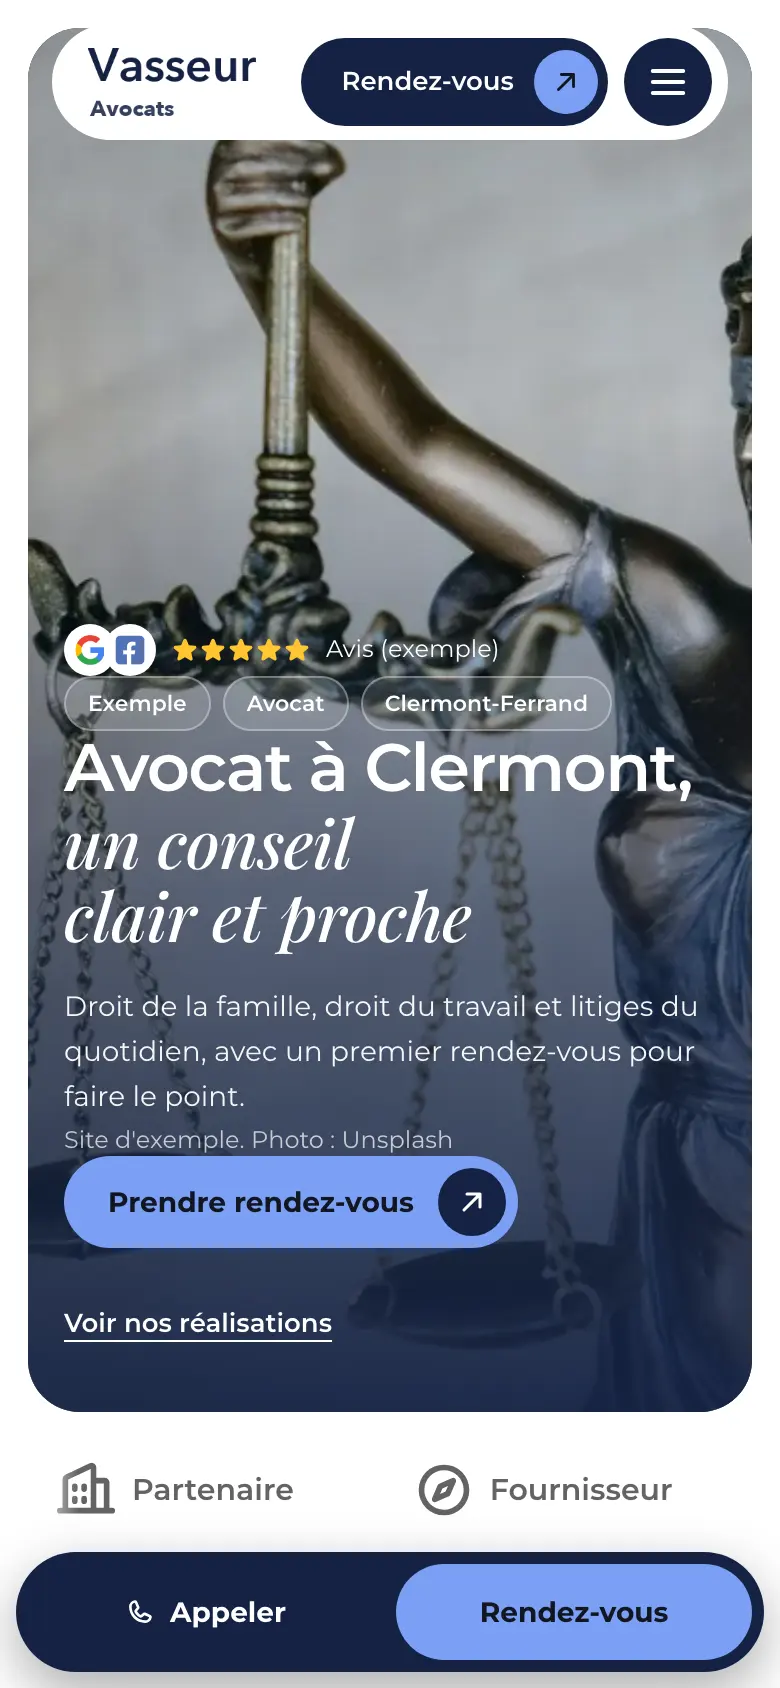
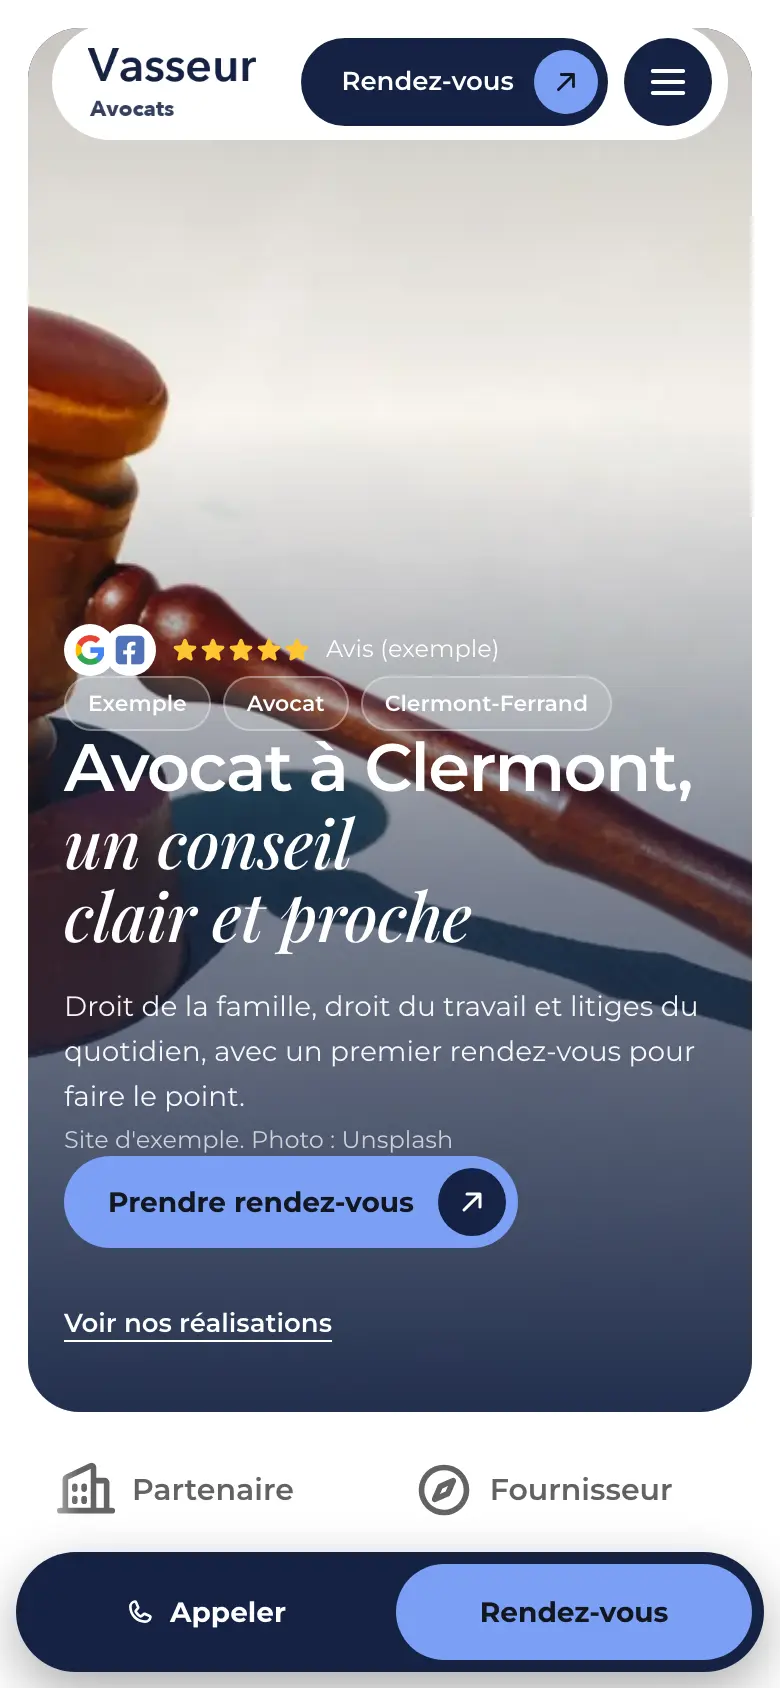
Hero : cadre argenté, écrans clairs, fondu en paliers, fond nettoyé

diff --git a/style.css b/style.css
@@ -69,24 +69,7 @@ em{font-style:normal;color:var(--red)}
 
 /* ---------- Hero ---------- */
 .hero{position:relative;padding-top:124px;text-align:center;overflow:clip;isolation:isolate}
-.hero-bg{position:absolute;inset:0;z-index:-1;
-  background:
-    radial-gradient(42% 30% at 50% 22%,rgba(var(--red-rgb),.07),transparent 72%),
-    radial-gradient(30% 45% at 0% 70%,rgba(var(--red-rgb),.09),transparent 70%),
-    radial-gradient(30% 45% at 100% 66%,rgba(var(--red-rgb),.08),transparent 70%),
-    linear-gradient(180deg,#FCFBFA 0%,#F7F3F3 45%,#F1E9EA 75%,var(--bg))}
-/* surface incurvée (ref-01) : creux en haut, bosse en bas, ombre portée par le parent */
-.surface{position:absolute}
-.hero-bg>.surface{left:-10%;right:-10%;top:470px;height:700px;filter:drop-shadow(0 -1px 0 rgba(var(--red-rgb),.20)) drop-shadow(0 -16px 30px rgba(28,29,33,.06));
-  background:
-    linear-gradient(180deg,#fff,rgba(255,255,255,.9) 50%,rgba(255,255,255,.55)),
-    radial-gradient(34% 80% at 0 40%,rgba(var(--red-rgb),.14),transparent),
-    radial-gradient(34% 80% at 100% 40%,rgba(var(--red-rgb),.12),transparent);
-  -webkit-mask:radial-gradient(58% 190px at 50% 0,transparent 98%,#000 100%),radial-gradient(64% 150px at 50% 100%,transparent 98%,#000 100%);
-  -webkit-mask-composite:source-in;
-  mask:radial-gradient(58% 190px at 50% 0,transparent 98%,#000 100%),radial-gradient(64% 150px at 50% 100%,transparent 98%,#000 100%);
-  mask-composite:intersect}
-
+.hero-bg{position:absolute;inset:0;z-index:-1;background:#FBFAF9}
 .hero-bg::before{content:"";position:absolute;inset:0;background:repeating-linear-gradient(90deg,rgba(28,29,33,.045) 0 1px,transparent 1px 92px);background-position:calc(50% + 46px) 0;-webkit-mask-image:linear-gradient(180deg,transparent 0%,#000 18%,#000 70%,transparent 96%);mask-image:linear-gradient(180deg,transparent 0%,#000 18%,#000 70%,transparent 96%)}
 .hero-copy{display:flex;flex-direction:column;align-items:center}
 .hero h1{margin-top:22px;font-size:clamp(40px,4.8vw,68px);font-weight:700;letter-spacing:-.04em;line-height:1}
@@ -108,20 +91,22 @@ em{font-style:normal;color:var(--red)}
 /* Bloc téléphones, mesuré sur ref-03 (voir ../tokens.md) */
 .stage{position:relative;margin-top:30px;height:725px;overflow:hidden}
 .stage-in{position:absolute;top:0;left:50%;width:1120px;height:725px;translate:-50% 0;transform-origin:50% 0}
-.halo{position:absolute;left:50%;top:40px;width:1100px;height:760px;translate:-50% 0;border-radius:50%;
-  background:radial-gradient(closest-side,rgba(var(--red-rgb),.16),rgba(var(--red-rgb),.07) 50%,rgba(var(--red-rgb),0))}
+.halo{position:absolute;left:50%;top:150px;width:980px;height:600px;translate:-50% 0;border-radius:50%;background:radial-gradient(closest-side,rgba(var(--red-rgb),.15),rgba(var(--red-rgb),.06) 55%,rgba(var(--red-rgb),0))}
 /* ombre au sol, floue, sous les téléphones */
-.floor{position:absolute;left:50%;top:560px;width:620px;height:150px;translate:-50% 0;border-radius:50%;background:radial-gradient(closest-side,rgba(28,29,33,.20),rgba(28,29,33,0));filter:blur(14px);z-index:3}
+.floor{position:absolute;left:50%;top:610px;width:760px;height:170px;translate:-50% 0;border-radius:50%;background:radial-gradient(closest-side,rgba(28,29,33,.18),rgba(28,29,33,0));filter:blur(18px);z-index:3}
 /* fondu : couche au-dessus des téléphones, vers la couleur exacte de la section suivante (#FBFAF9), sur les 24 % du bas */
-.stage::after{content:"";position:absolute;left:0;right:0;bottom:0;height:24%;z-index:5;pointer-events:none;background:linear-gradient(180deg,rgba(251,250,249,0) 0%,rgba(251,250,249,.18) 22%,rgba(251,250,249,.5) 46%,rgba(251,250,249,.82) 70%,#FBFAF9 92%)}
+.stage::after{content:"";position:absolute;left:0;right:0;bottom:0;height:18%;z-index:5;pointer-events:none;background:linear-gradient(180deg,rgba(251,250,249,0) 0%,rgba(251,250,249,.08) 12%,rgba(251,250,249,.24) 26%,rgba(251,250,249,.46) 40%,rgba(251,250,249,.68) 55%,rgba(251,250,249,.86) 70%,rgba(251,250,249,.96) 84%,#FBFAF9 94%)}
 
 /* UN composant téléphone (iPhone Pro), en % de sa largeur : 1em = 1 % de --w.
-   Cadre titane 1,6 %, bordure noire 2,1 %, écran 390×844, coins 16 %. */
-.iphone{--w:331px;position:absolute;margin:0;width:var(--w);height:calc(var(--w) * 2.078);font-size:calc(var(--w) / 100);padding:1.6em;border-radius:16em;transform-origin:50% 50%;
-  background:linear-gradient(90deg,#8E949C 0%,#E9EBEE 4%,#C3C8CE 9%,#F3F4F6 35%,#DDE0E4 65%,#C0C5CB 91%,#E7E9EC 96%,#8A9098 100%);
-  box-shadow:inset 0 0 0 .3em rgba(255,255,255,.8),inset 0 .4em .7em rgba(255,255,255,.6),inset 0 -.5em 1em rgba(60,66,74,.25),
-    0 2px 4px rgba(28,29,33,.10),0 24px 48px -12px rgba(28,29,33,.22),0 70px 120px -40px rgba(28,29,33,.30)}
-.bezel{height:100%;padding:2.1em;border-radius:14.4em;background:#0B0C0E;box-shadow:inset 0 0 0 .3em #24262B}
+   Bord argenté épais et légèrement translucide (2,4 %), arête brillante, bordure noire fine (1,4 %), écran 390×844, coins 16 %.
+   L'épaisseur est un vrai volume 3D (dos décalé en Z), visible grâce à la perspective du conteneur. */
+.stage-in{perspective:1400px;perspective-origin:50% 30%}
+.iphone{--w:331px;position:absolute;margin:0;width:var(--w);height:calc(var(--w) * 2.078);font-size:calc(var(--w) / 100);padding:2.8em;border-radius:16em;transform-style:preserve-3d;
+  background:linear-gradient(100deg,#D9DCE0 0%,#F7F8F9 6%,#E4E7EA 18%,#FBFBFC 46%,#E6E8EB 78%,#F6F7F8 92%,#D6D9DD 100%);
+  box-shadow:inset 0 0 0 .22em rgba(255,255,255,.95),inset .8em .6em 1.2em rgba(255,255,255,.7),inset -.6em -.7em 1.2em rgba(150,156,164,.22),
+    0 1px 2px rgba(28,29,33,.06),0 26px 50px -14px rgba(28,29,33,.18),0 70px 120px -40px rgba(28,29,33,.22)}
+.iphone::before{content:"";position:absolute;inset:0;border-radius:inherit;transform:translateZ(-2.6em);background:linear-gradient(100deg,#C9CDD2,#E9EBEE 45%,#CDD1D6)}
+.bezel{position:relative;height:100%;padding:.9em;border-radius:13.2em;background:#141518}
 .screen{position:relative;height:100%;border-radius:12.3em;overflow:hidden;background:#fff}
 .screen::after{content:"";position:absolute;inset:0;z-index:3;pointer-events:none;background:linear-gradient(120deg,rgba(255,255,255,.18) 0%,rgba(255,255,255,.04) 34%,rgba(255,255,255,0) 34.5%)}
 .status{position:absolute;inset:0 0 auto;z-index:2;display:flex;align-items:center;justify-content:space-between;height:11.2em;padding:0 7.4em 0 8.6em;background:#fff;color:#0B0C0E}
@@ -130,15 +115,15 @@ em{font-style:normal;color:var(--red)}
 .status .bat{font-size:1.15em}
 .island{position:absolute;left:50%;top:2.6em;width:28.7em;height:8.6em;translate:-50% 0;border-radius:5em;background:#000}
 .scr{position:absolute;top:11.2em;left:0;width:100%;height:auto}
-.hw{position:absolute;width:1.1em;border-radius:1em;background:linear-gradient(90deg,#7F858D,#D9DCE0 50%,#8D939B)}
+.hw{position:absolute;width:1.1em;border-radius:1em;background:linear-gradient(90deg,#C3C7CC,#F2F3F5 50%,#C7CBD0)}
 .hw-act{left:-.8em;top:17%;height:9em}.hw-vu{left:-.8em;top:24%;height:17em}.hw-vd{left:-.8em;top:32.5%;height:17em}.hw-pw{right:-.8em;top:26%;height:27em}
-/* les trois instances : seules position et rotation changent */
-.phone-c{left:394px;top:47px;z-index:2}
-.phone-l{left:149px;top:78px;z-index:1;transform:perspective(1500px) rotateZ(-23deg) rotateY(26deg) rotateX(14deg)}
-.phone-r{left:654px;top:72px;z-index:1;transform:perspective(1500px) rotateZ(18deg) rotateY(-26deg) rotateX(14deg)}
+/* les trois instances : seules position et rotation changent (éventail autour d'un pivot sous l'axe central) */
+.phone-c{left:394px;top:47px;z-index:2;transform:rotateX(8deg)}
+.phone-l{left:196px;top:70px;z-index:1;transform-origin:50% 100%;transform:translateZ(-120px) rotateZ(-20deg) rotateY(14deg) rotateX(10deg)}
+.phone-r{left:594px;top:70px;z-index:1;transform-origin:50% 100%;transform:translateZ(-120px) rotateZ(20deg) rotateY(-14deg) rotateX(10deg)}
 .tag-demo{position:absolute;top:13%;left:-3em;z-index:4;display:inline-flex;align-items:center;gap:5px;padding:6px 12px;border-radius:var(--r-pill);background:var(--red);color:#fff;font-size:13px;font-weight:600;box-shadow:var(--sh-red)}
 .tag-demo svg{font-size:15px}
-.ex-tag{position:absolute;top:-6em;left:50%;translate:-50% 0;z-index:4;padding:4px 10px;border-radius:99px;background:#fff;color:var(--ink-2);font-size:12px;font-weight:560;box-shadow:var(--sh-2)}
+.ex-tag{position:absolute;top:19%;right:9em;z-index:4;padding:.9em 3em;border-radius:99px;background:rgba(255,255,255,.94);color:var(--ink);font-size:3.6em;font-weight:600;box-shadow:0 1px 3px rgba(28,29,33,.18)}
 
 /* notes papier (ref-03) : légèrement tournées, adhésif ou pince */
 .note{position:absolute;z-index:3;width:282px;padding:18px 20px 18px;border-radius:8px;background:#FFFEFB;text-align:left;font-size:15px;line-height:1.4;
@@ -150,9 +135,9 @@ em{font-style:normal;color:var(--red)}
 .n-head b{font-size:16px;font-weight:650;letter-spacing:-.01em}
 .n-head time{margin-left:auto;color:var(--ink-2);font-size:13px}
 .n-msg{margin-top:10px;font-size:16px;line-height:1.4;color:var(--ink)}
-.hero-notes{position:absolute;top:0;left:50%;width:1380px;height:600px;translate:-50% 0;pointer-events:none}
-.note-l{left:20px;top:318px;rotate:-1.5deg}
-.note-r{right:20px;top:300px;rotate:1.5deg}
+.hero-notes{position:absolute;top:0;left:0;right:0;height:700px;pointer-events:none}
+.note-l{left:30px;top:392px;rotate:-1.5deg}
+.note-r{right:30px;top:372px;rotate:1.5deg}
 @media (max-width:1300px){.hero-notes{display:none}}
 .tape{position:absolute;top:-12px;left:50%;width:90px;height:24px;translate:-50% 0;rotate:-3deg;background:rgba(236,226,206,.8);box-shadow:0 1px 2px rgba(28,29,33,.08)}
 .clip{position:absolute;top:-16px;right:30px;width:16px;height:44px;border-radius:9px;border:3px solid #A9AFB7;border-bottom-color:transparent;rotate:8deg}
@@ -517,6 +502,5 @@ em{font-style:normal;color:var(--red)}
   .stage{height:478px;margin-top:26px}
   .stage-in{scale:.66}
   .note{display:none}
-  .ex-tag{display:none}
   .tag-demo{font-size:12px;padding:5px 10px}
 }

diff --git a/index.html b/index.html
@@ -42,7 +42,7 @@
 
 <main id="contenu">
 <section class="hero" id="top">
-  <div class="hero-bg" aria-hidden="true"><div class="surface"></div></div>
+  <div class="hero-bg" aria-hidden="true"></div>
   <div class="hero-notes">
     <div class="note note-l" aria-hidden="true">
       <span class="tape"></span>
